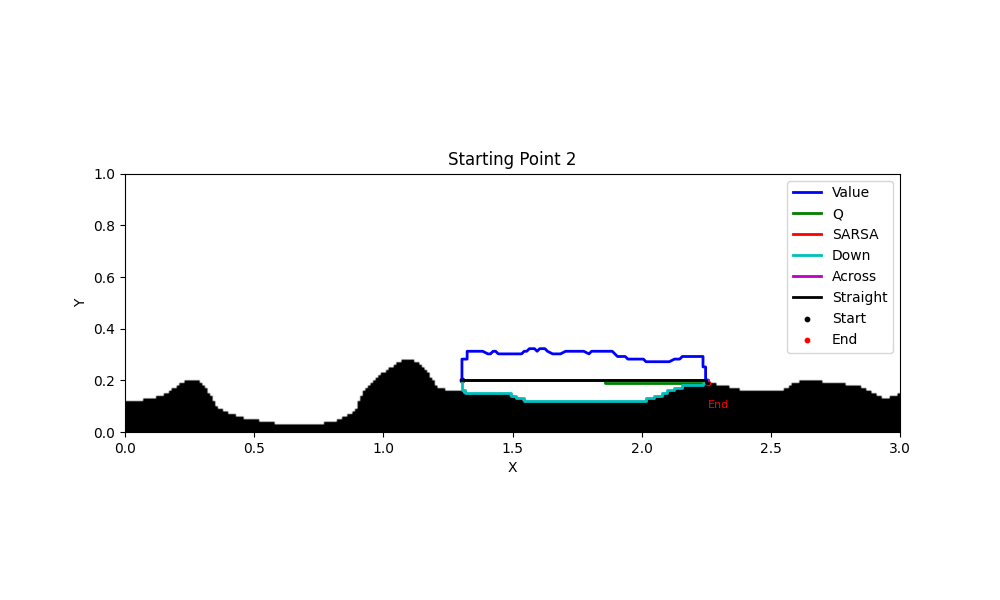
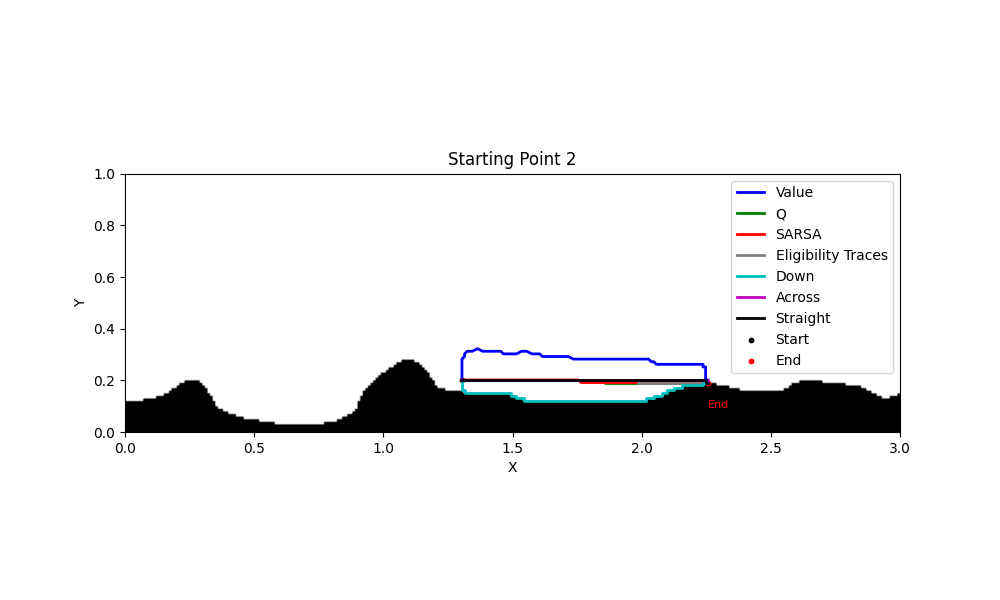
Updates with Eligibilty Trace statistics.

Changed region(s): [[0.744, 0.3, 0.899, 0.63], [0.589, 0.57, 0.713, 0.66], [0.465, 0.57, 0.62, 0.6]]

diff --git a/stastics.py b/stastics.py
@@ -30,7 +30,7 @@ def main():
     q_save_file='Final_Inputs/Q.pkl'
     sarsa_save_file='Final_Inputs/SARSA.pkl'
     q_nn_save_file='Final_Inputs/Q_NN.pkl'
-    elligibility_save_file='Final_Inputs/SARSA.pkl'
+    elligibility_save_file='Final_Inputs/eligibility_trace_policy2.pkl'
 
     #Log File
     log_file='stastics.csv'
@@ -97,8 +97,8 @@ def main():
     #Elligibility Traces Learning policy
     with open(elligibility_save_file, "rb") as fp:
         temp = pickle.load(fp)
-        P_e=temp[1]
-        run_time_e=temp[2]
+        P_e=temp
+        run_time_e=4*60*60+12*60
     #Baseline Policies
     P_down=baseline_down(floor_mask,end_location)
     P_across=baseline_across(floor_mask,end_location)

diff --git a/main.py b/main.py
@@ -220,6 +220,12 @@ def main():
 
     ##########################################################################################################################################
   
+    #Temporary code to do the policy plot for elgibility traces
+    #elligibility_save_file='Final_Inputs/eligibility_trace_policy2.pkl'
+    #with open(elligibility_save_file, "rb") as fp:
+    #    temp = pickle.load(fp)
+    #    P_e=temp
+    #plot_policy(P_e,X_max,Y_max,end_location,floor_mask,'Figures/eligibility_traces_policy.png','Eligibility Traces')
     
     #Group 2: Generation of a Policy
     if policy_eval_choice==1:
